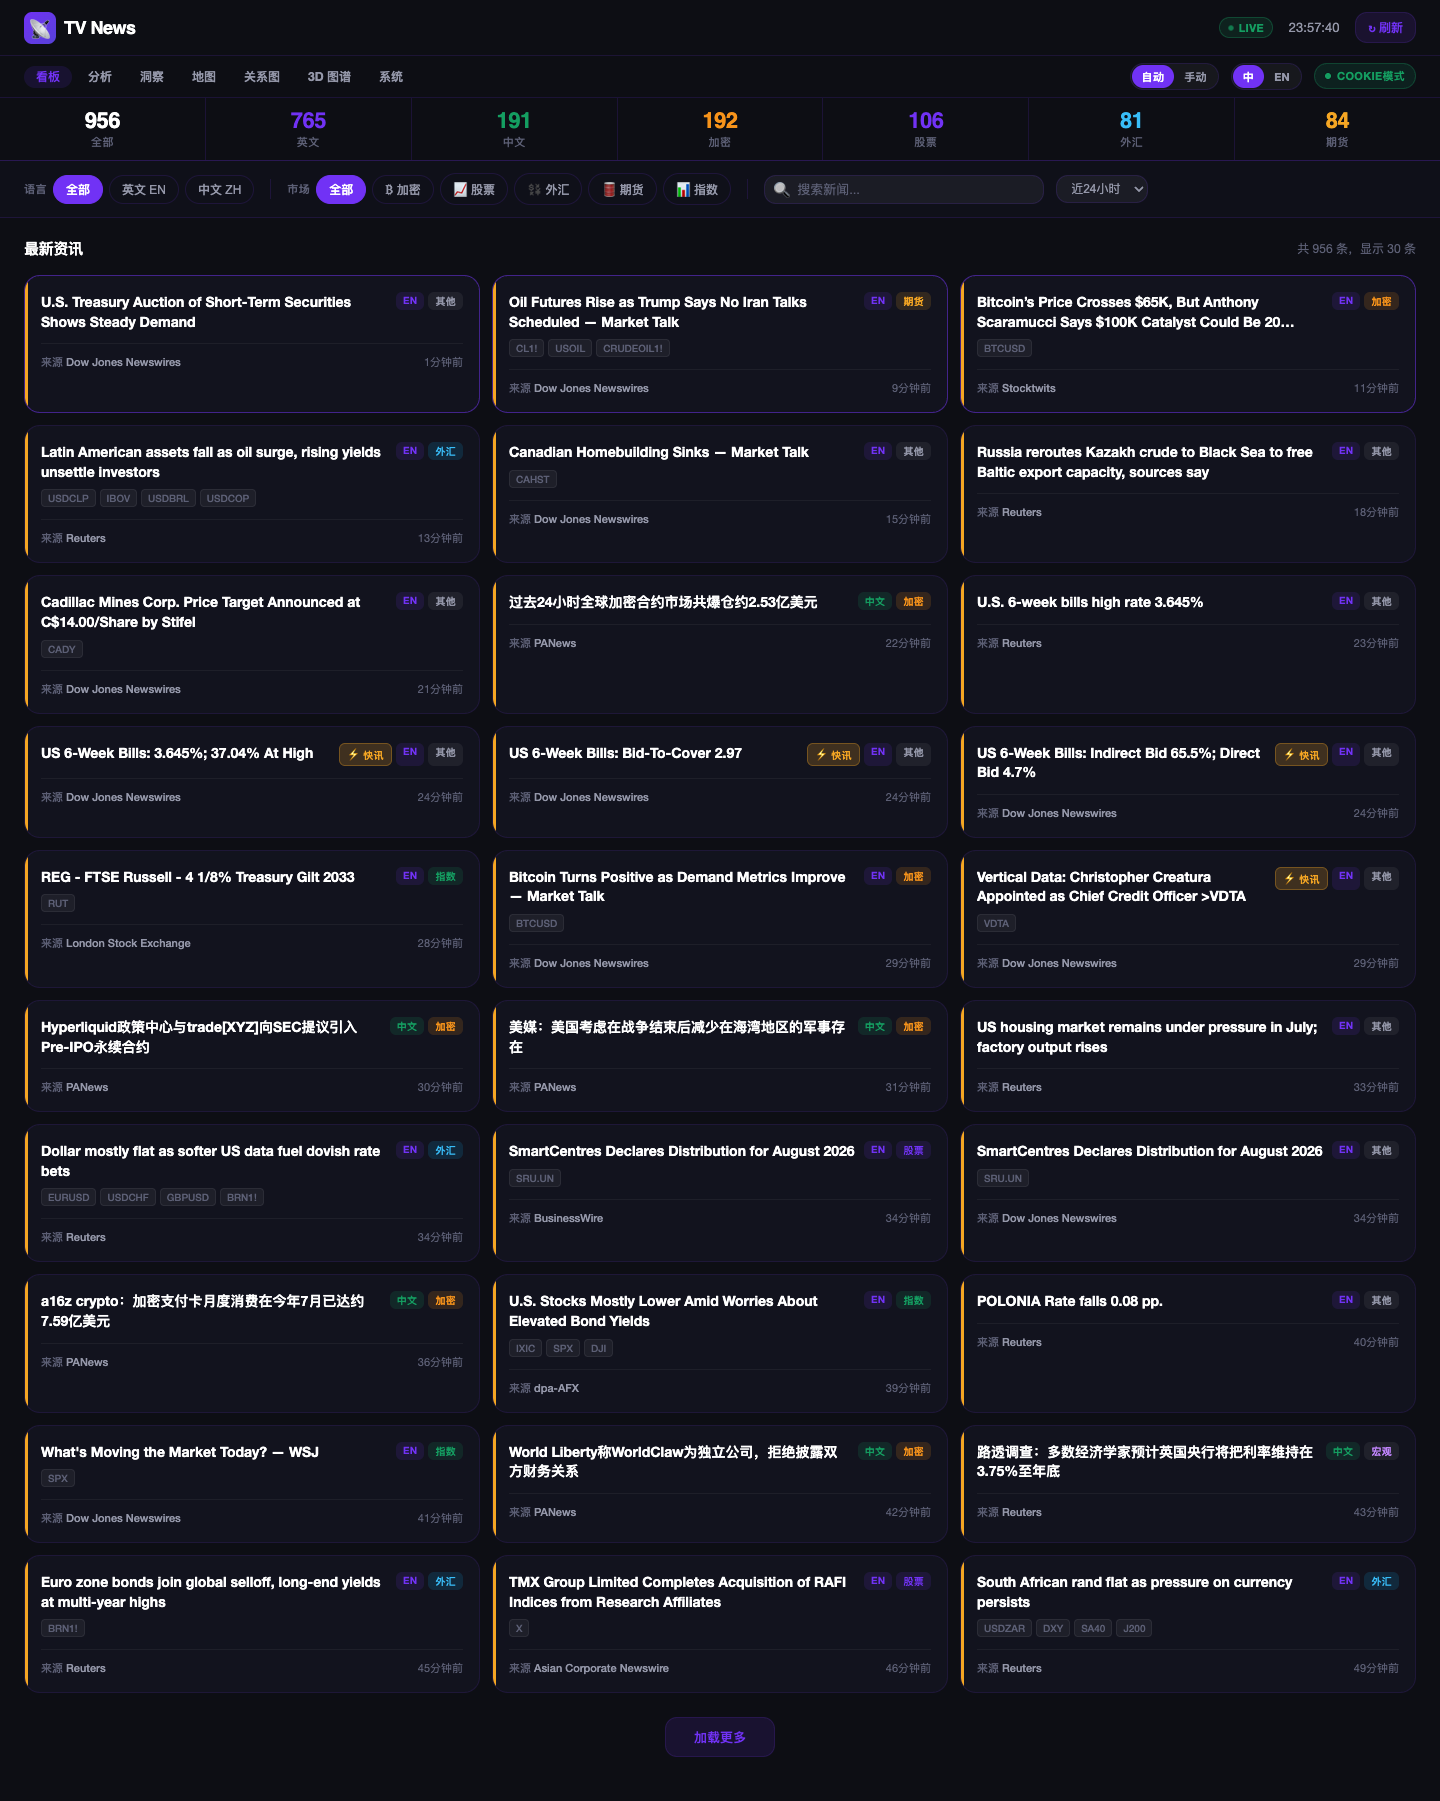
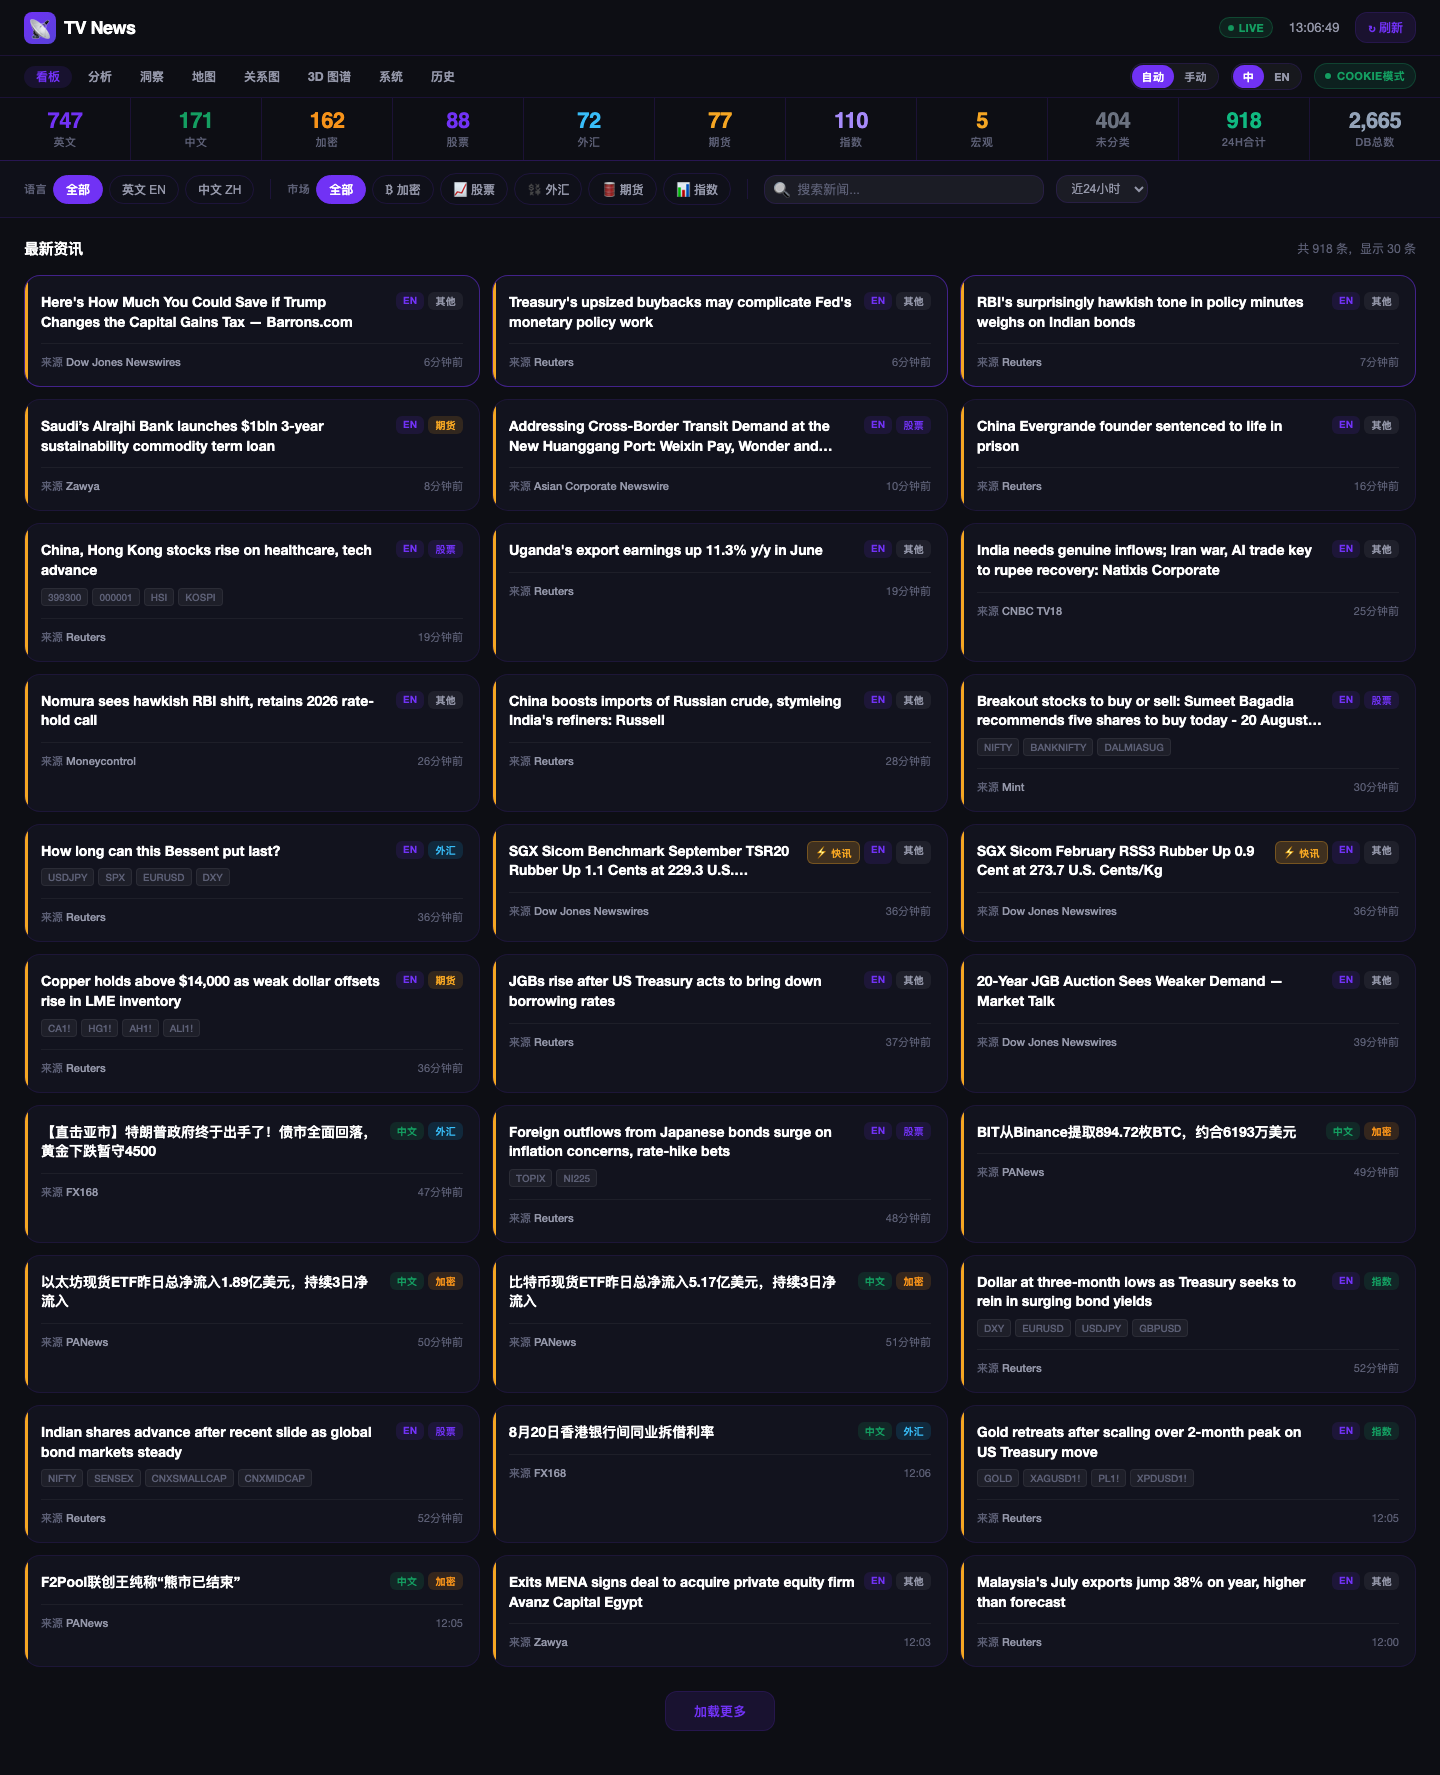
docs: refresh README + 10 page screenshots (v1.1.0)
- 重新拍摄 8 个 v1.0 页面截图（v1.1.0 风格：sticky topbar + 字体定型）
- 新增 09-history.png（/history 页面：4 周期筛选 + 连续性对比 + 时间线）
- 新增 10-config.png（/config/backfill 页面：AI 洞察配置区）
- README 新增 2 个页面预览

所有 10 张截图均在 v1.1.0 代码版本下拍摄，与发布版本一致。

diff --git a/README.md b/README.md
@@ -21,7 +21,7 @@
 
 ![Analytics](docs/screenshots/02-analytics.png)
 
-### 🕒 AI 市场洞察（时间线 + 全局叙事 + 4 周期 tab）
+### 🕒 AI 市场洞察（时间线 + 4 周期 tab + 全局叙事）
 
 ![Timeline](docs/screenshots/03-timeline.png)
 
@@ -37,13 +37,21 @@
 
 ![3D Graph](docs/screenshots/06-graph3d.png)
 
-### 🛠 系统总览（含 AI 配置 + 多周期洞察状态）
+### 🛠 系统总览（含 AI 管理 + 多周期洞察状态）
 
 ![System](docs/screenshots/07-system.png)
 
-### 💾 数据备份 & 恢复
+### 💾 数据备份 & 恢复（手动管理）
 
 ![Backup](docs/screenshots/08-backup.png)
+
+### 📜 AI 洞察历史（4 周期筛选 + 连续性对比）
+
+![History](docs/screenshots/09-history.png)
+
+### ⚙ 回填参数 + AI 洞察配置
+
+![Config](docs/screenshots/10-config.png)
 
 ---
 
